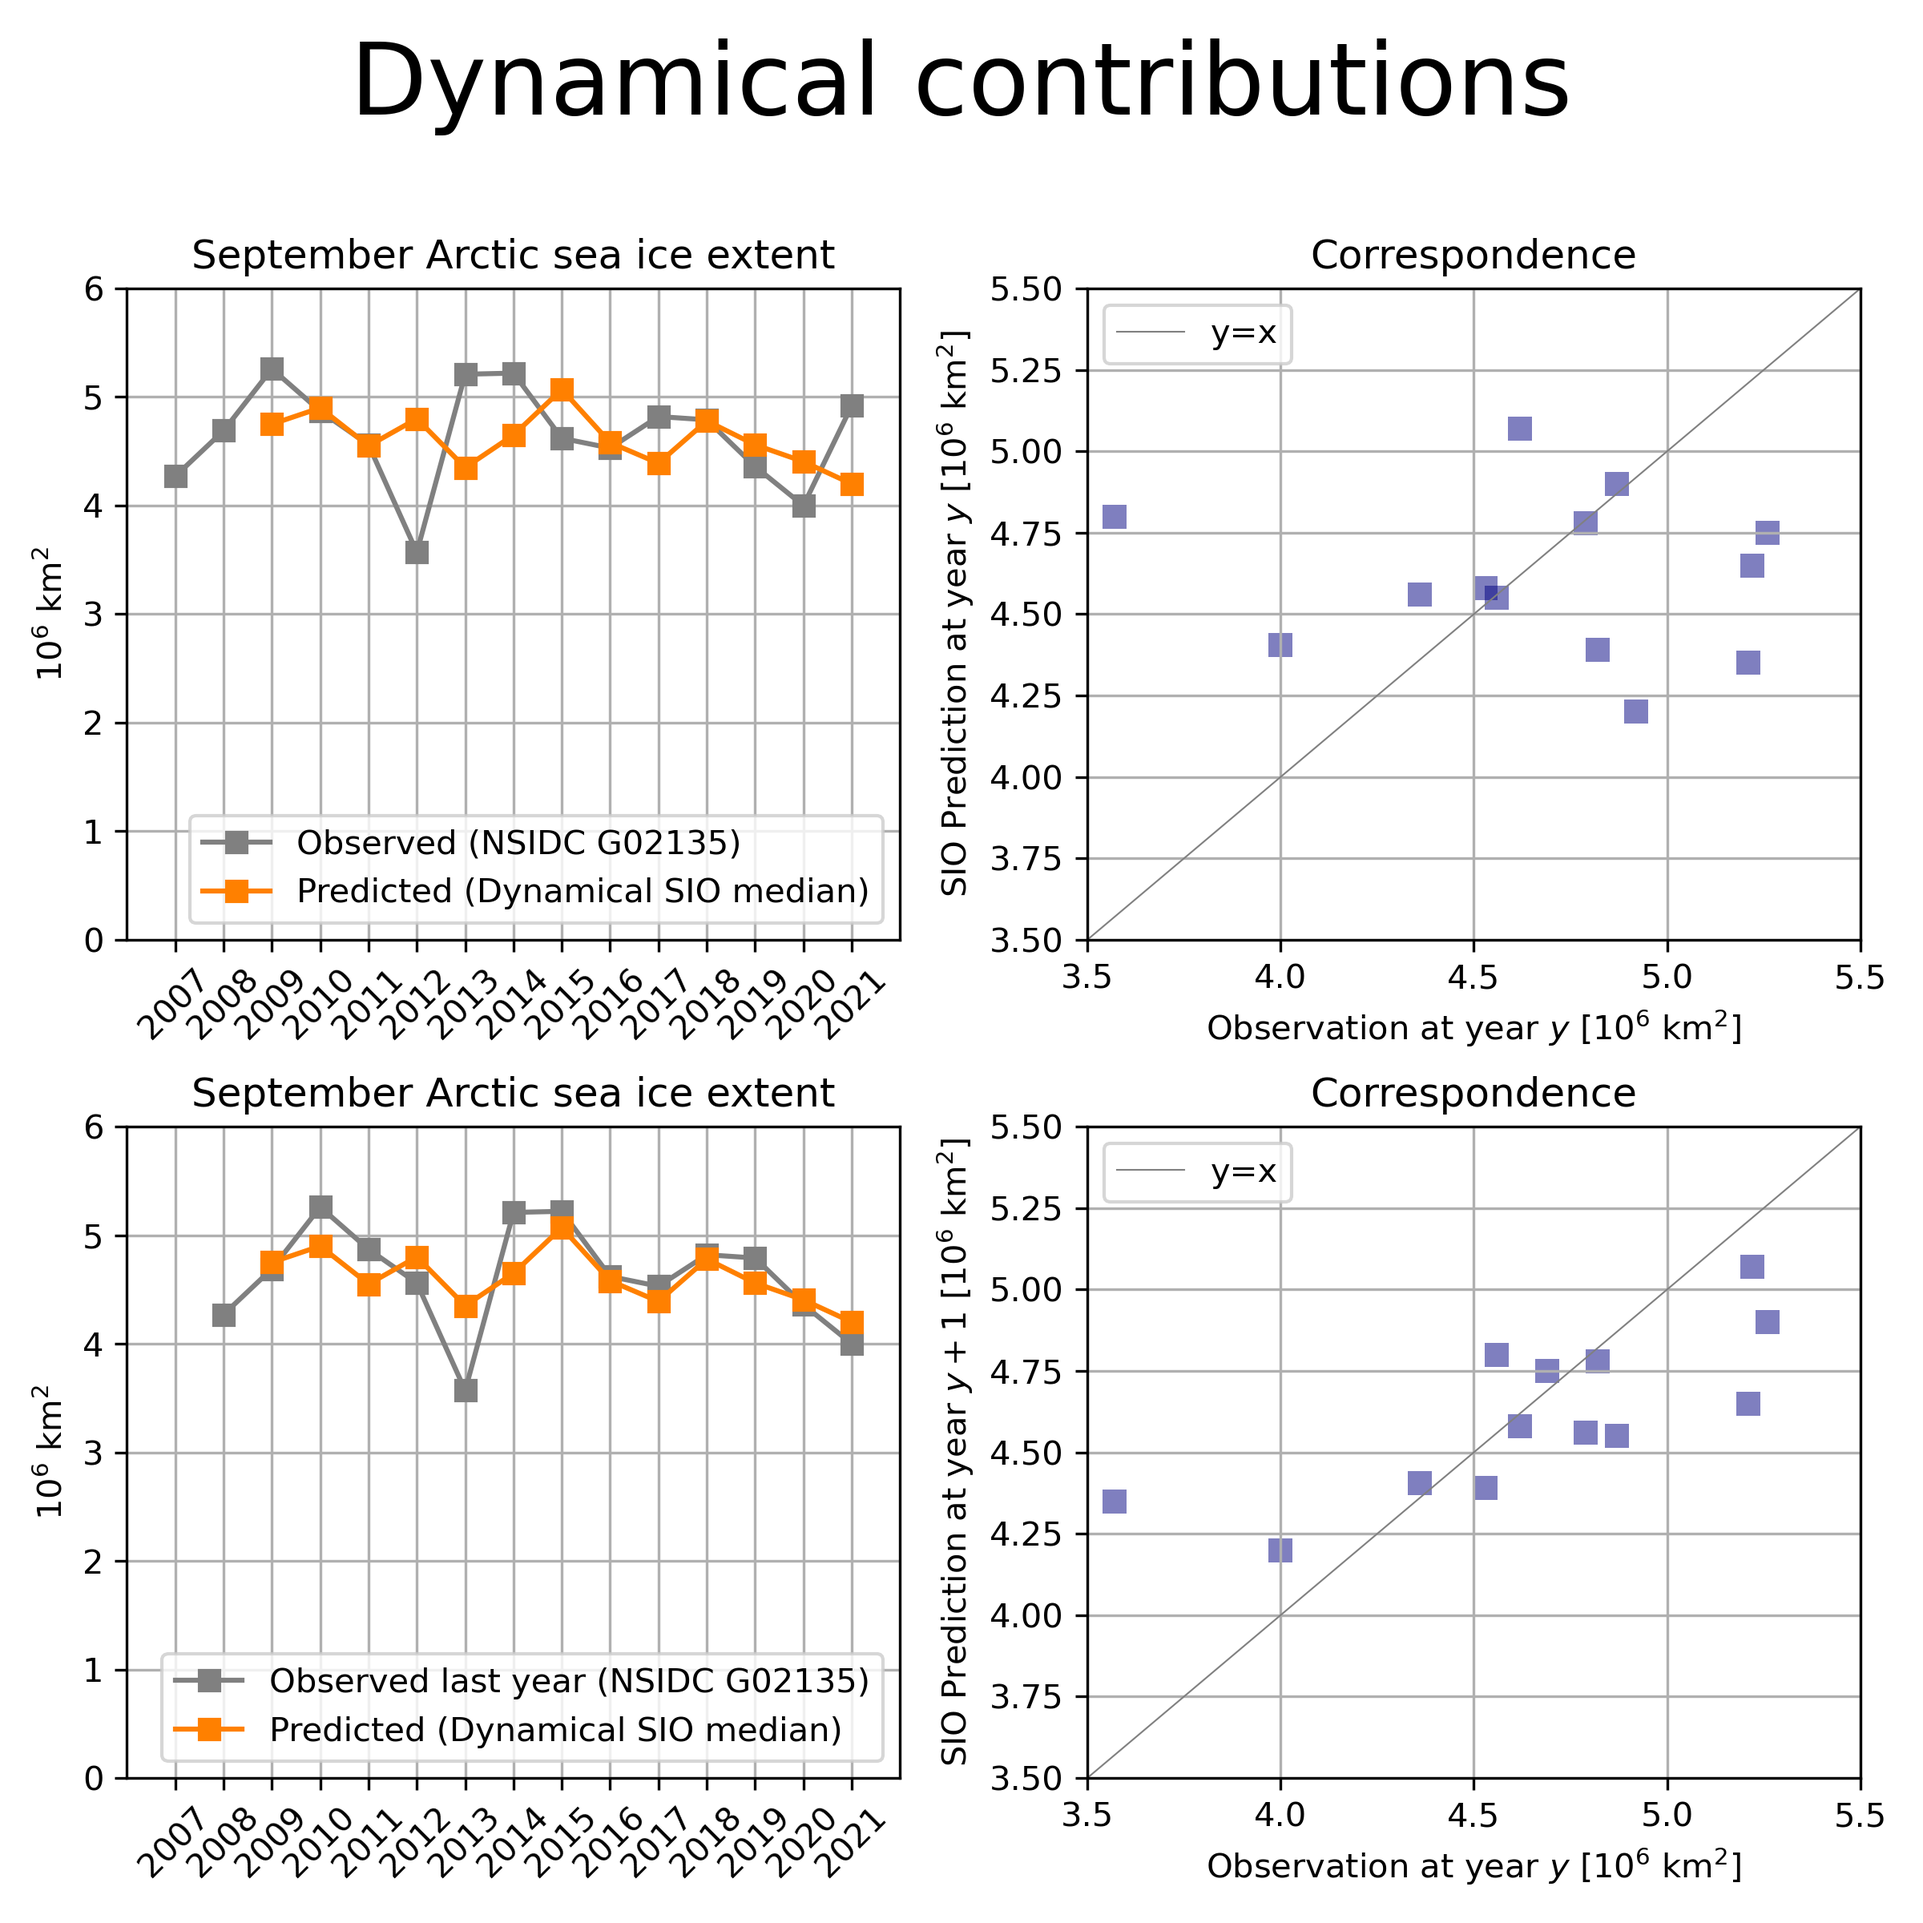
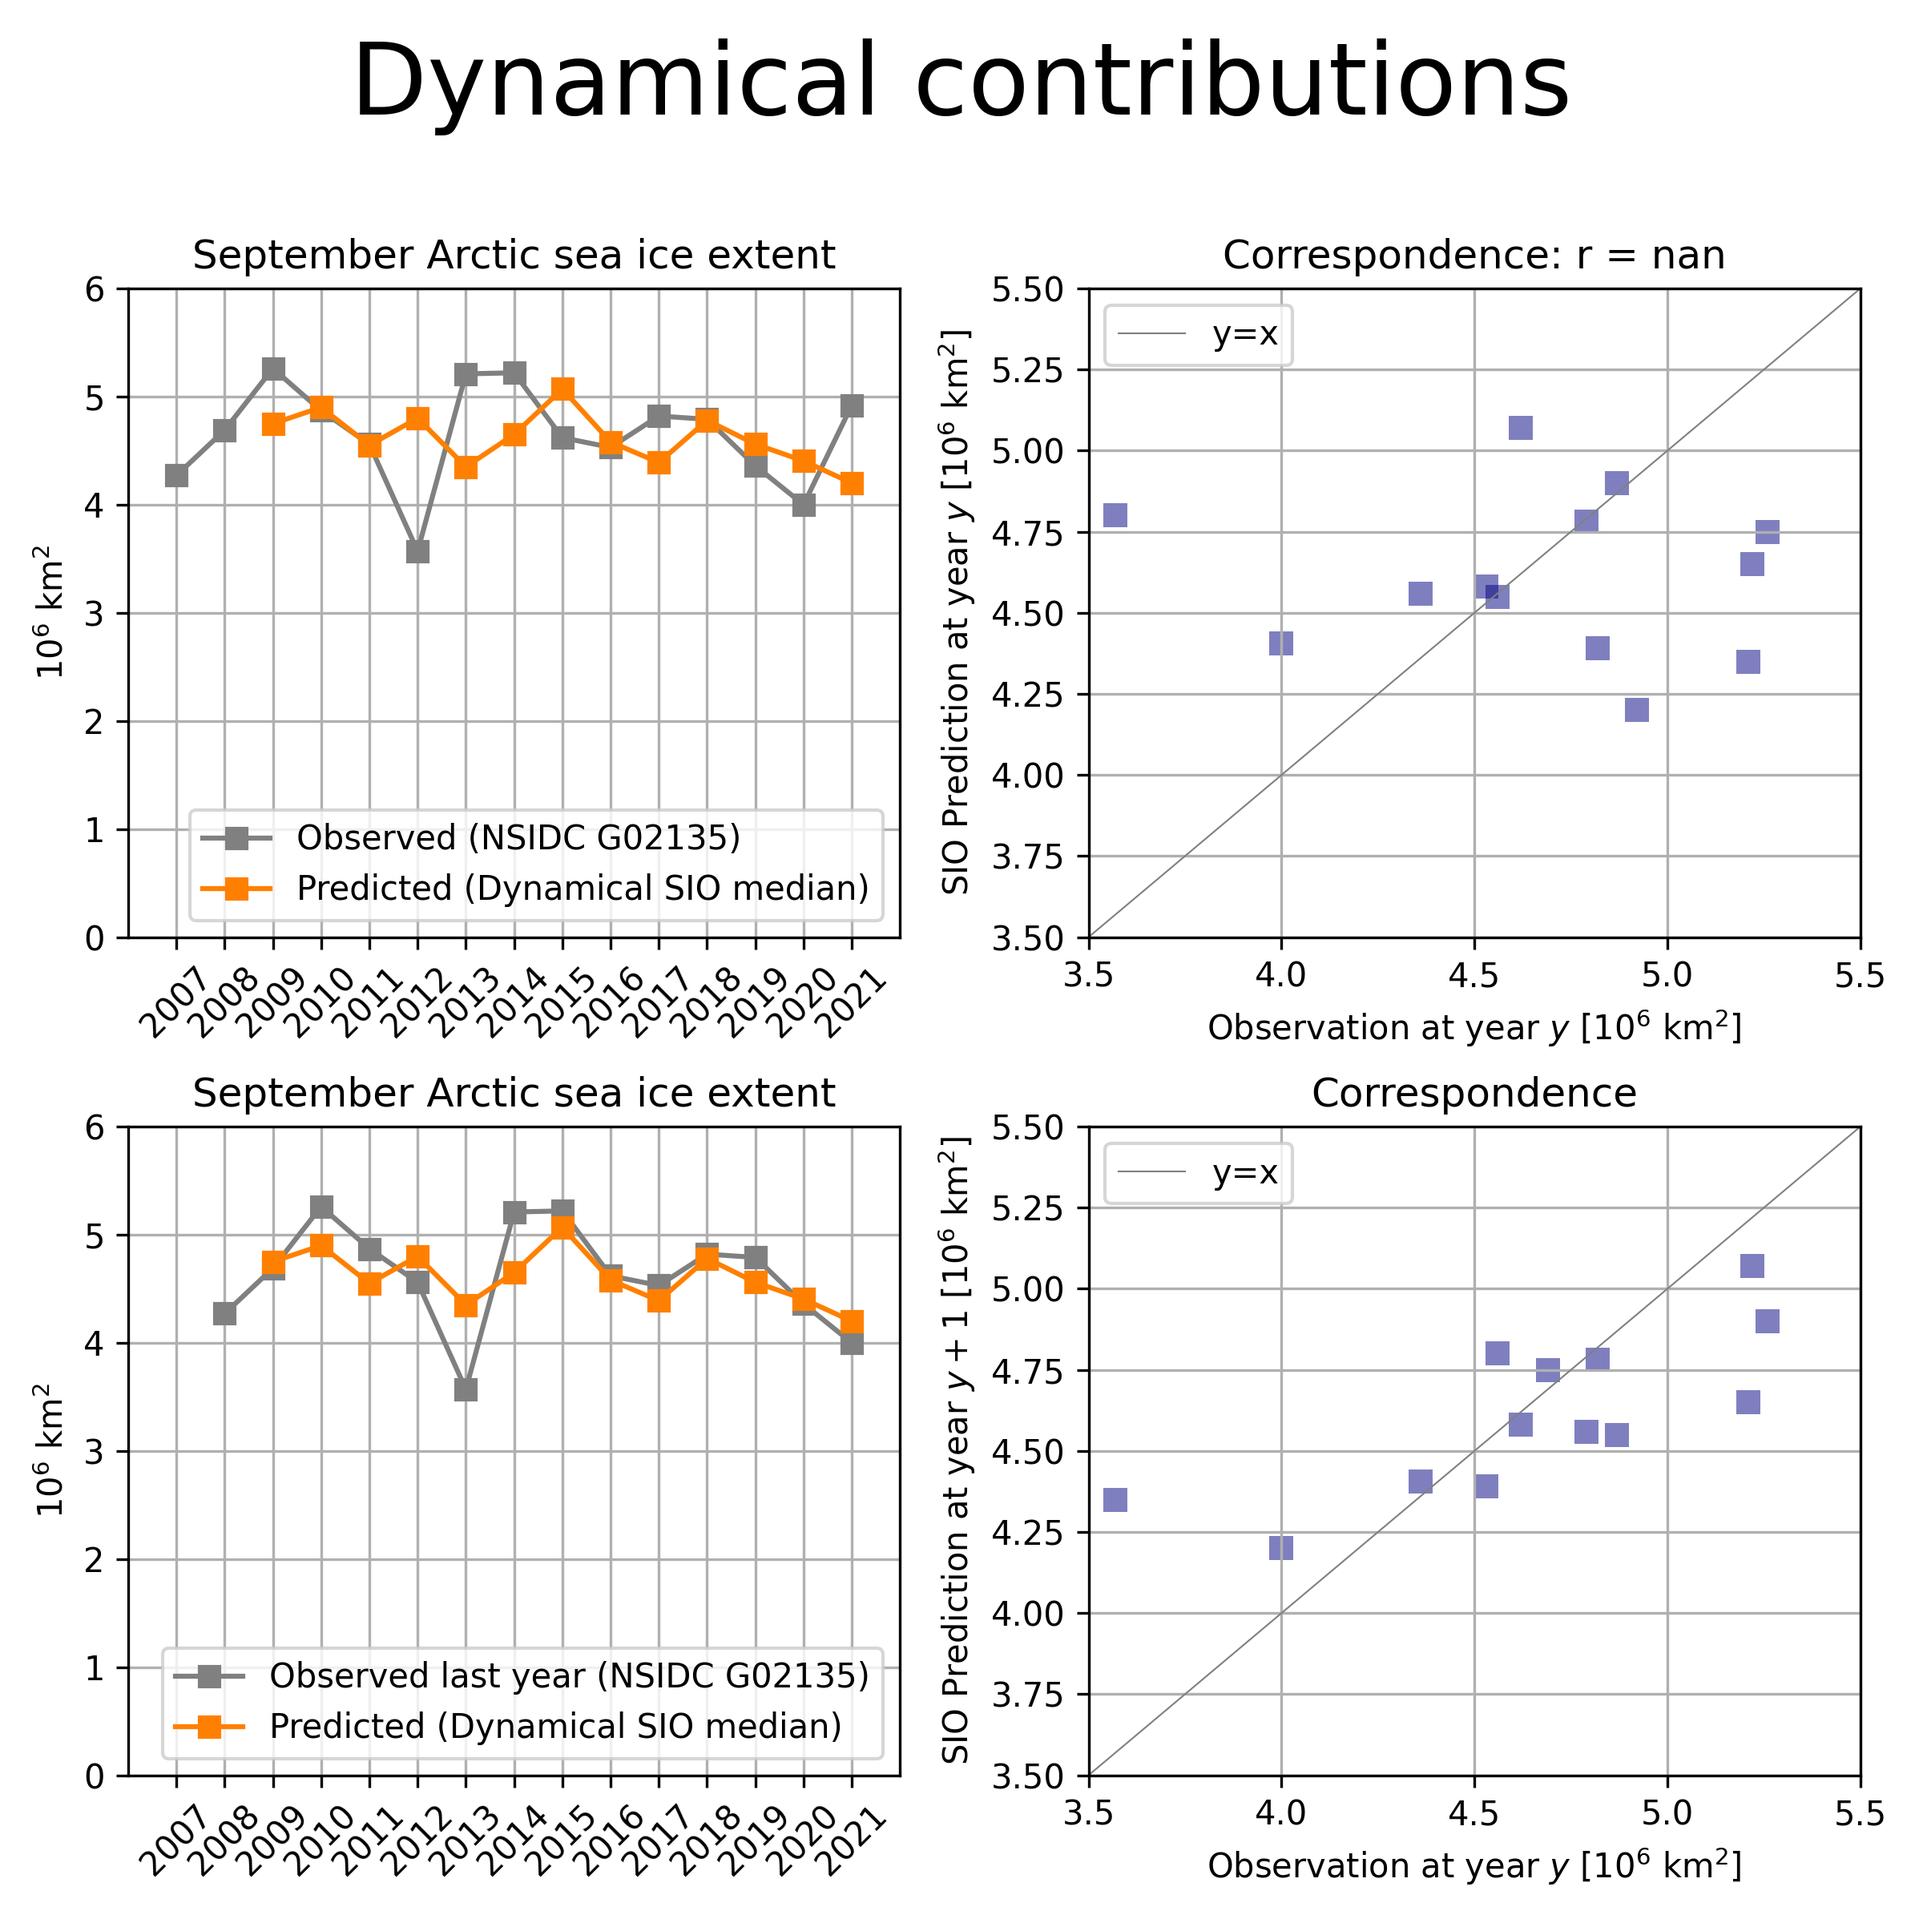
Update 2022 June

diff --git a/sio_predicting_predictions.py b/sio_predicting_predictions.py
@@ -14,7 +14,7 @@ from   netCDF4 import Dataset
 import numpy as np
 from datetime import date
 import matplotlib.pyplot as plt
-import wget
+#import wget
 import os
 import csv
 import scipy.stats
@@ -22,7 +22,7 @@ import calendar
 
 # Add SIO data (June submissions)
 methname = ["All",  "Dynamical", "Statistical", "Heuristic", "Mixed"]
-method = 2
+method = 3
 
 #       Year   obs   mode, [ALL,    DYN,    STAT,   HEUR,   MIX]
 #
@@ -45,7 +45,7 @@ data = [
         [2019, 4.36, "inSample",   [4.40,   4.56,   4.4 ,   4.09,   np.nan]], # Based on Betsy's Excel sheet
         [2020, 4.00, "inSample",   [4.33,  4.405,  4.26,   4.35,   np.nan  ]], #
         [2021, 4.92, "inSample",   [4.37,   4.20,    4.46,  4.29,   np.nan ]],
-        #[2022, np.nan, "outSample",   [np.nan,   np.nan,    np.nan,  np.nan,   np.nan ]],
+        [2022, np.nan, "inSample",  [4.57,   4.56, 4.64,  4.38,   4.85 ]],
        ]
 
 # Collect data to contruct relationship
@@ -77,7 +77,7 @@ ax2.set_xlabel("Observation at year $y$ [10$^6$ km$^2$]")
 ax2.set_xlim(3.5, 5.5)
 ax2.set_ylim(3.5, 5.5)
 ax2.plot((0.0, 10.0), (0.0, 10.0), color = "grey", lw = 0.5, label = "y=x")
-ax2.set_title("Correspondence") 
+ax2.set_title("Correspondence: r = " + str(np.corrcoef(ssies[1:], preds[1:])[0, 1])) 
 ax2.scatter(ssies, preds, 50, marker = "s", alpha = 0.5, lw = 0.0, color = [0.0, 0.0, 0.5])
 ax2.legend()
 
@@ -213,7 +213,7 @@ fig, ax = plt.subplots(1,1, dpi = 150)
 ax.scatter(sept[:-1],june[1:])
 
 
-fig.close()
+plt.close(fig)
 
 
 
